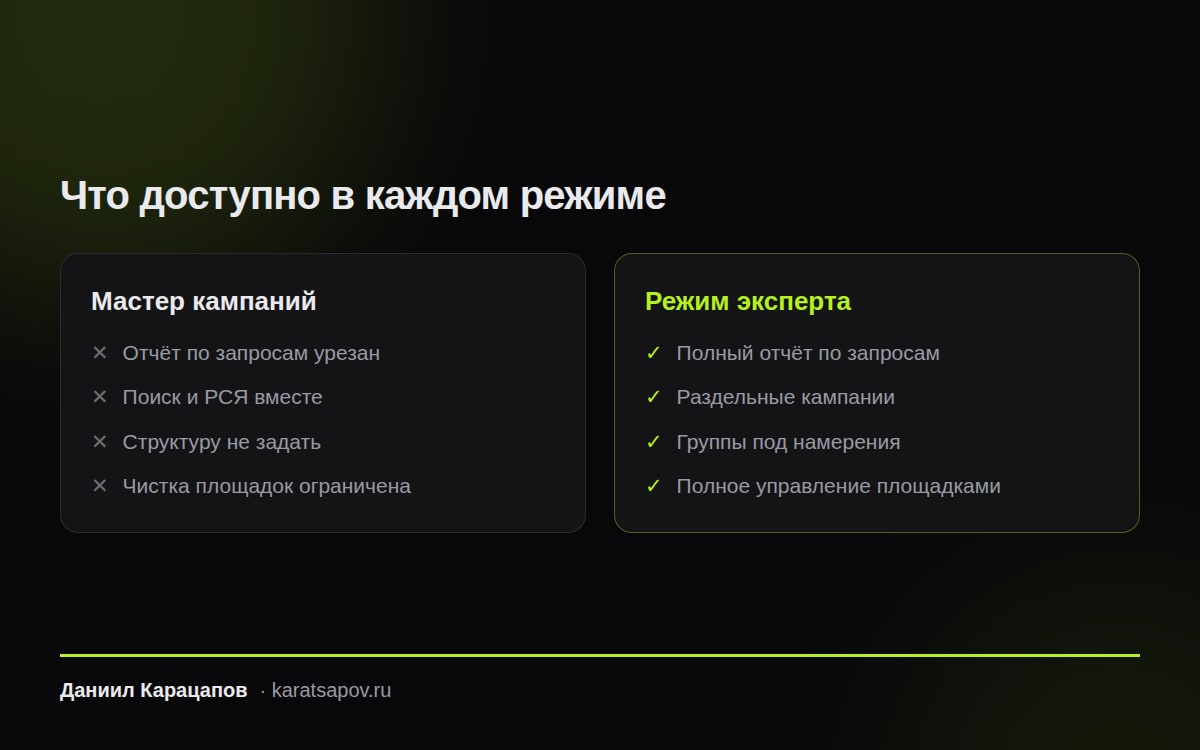
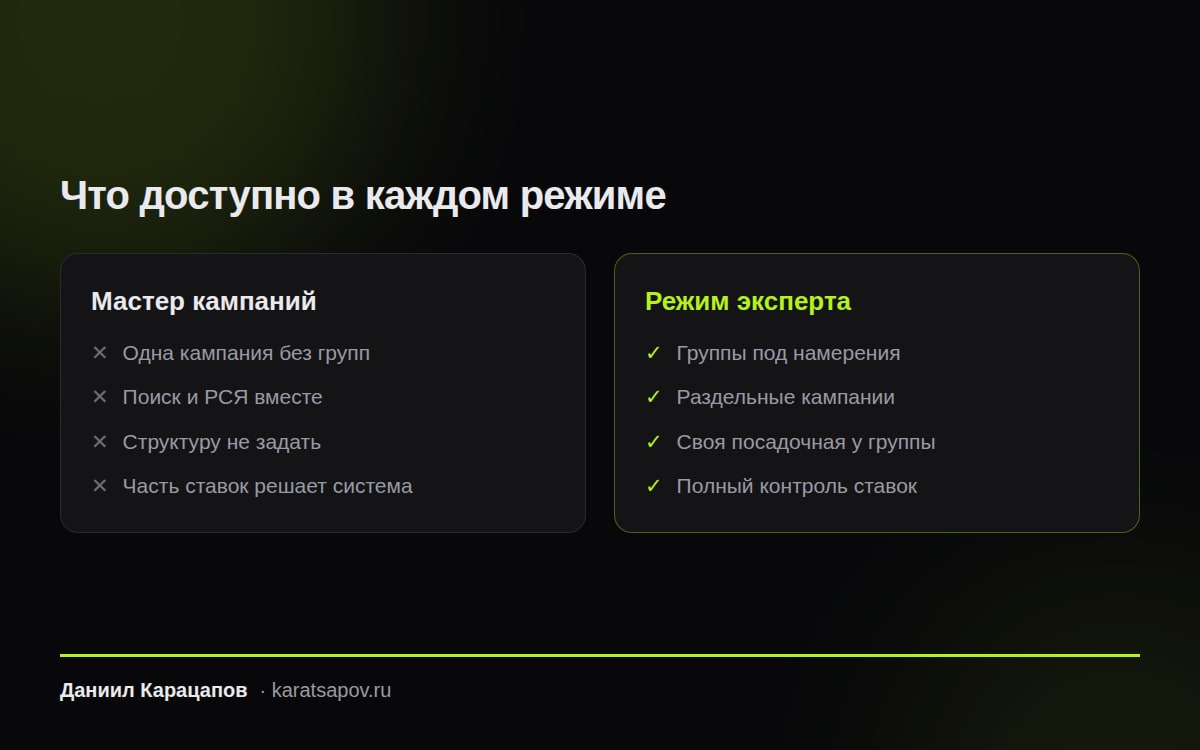
deploy: b6965710183f1ced0473240cff7ca3119b481701

diff --git a/blog/master-kampanij/index.html b/blog/master-kampanij/index.html
@@ -42,7 +42,7 @@
 <noscript><div><img src="https://mc.yandex.ru/watch/109681858" style="position:absolute; left:-9999px;" alt="" /></div></noscript>
 <!-- /Yandex.Metrika counter -->
 <script type="application/ld+json">{"@context":"https://schema.org","@type":"BreadcrumbList","itemListElement":[{"@type":"ListItem","position":1,"name":"Главная","item":"https://karatsapov.ru/"},{"@type":"ListItem","position":2,"name":"Блог","item":"https://karatsapov.ru/blog/"},{"@type":"ListItem","position":3,"name":"Мастер кампаний в Яндекс Директе — кому подходит, а кому вредит","item":"https://karatsapov.ru/blog/master-kampanij/"}]}</script>
-<script type="application/ld+json">{"@context":"https://schema.org","@type":"BlogPosting","headline":"Мастер кампаний в Яндекс Директе — кому подходит, а кому вредит","description":"Что такое Мастер кампаний, чем он отличается от режима эксперта и в каких случаях им можно пользоваться без потерь. Разбор ограничений автоматического режима и типичных ситуаций, где он сливает бюджет.","datePublished":"2026-08-15","dateModified":"2026-08-15","inLanguage":"ru-RU","author":{"@id":"https://karatsapov.ru/#person"},"publisher":{"@id":"https://karatsapov.ru/#person"},"mainEntityOfPage":{"@type":"WebPage","@id":"https://karatsapov.ru/blog/master-kampanij/"},"url":"https://karatsapov.ru/blog/master-kampanij/","image":"https://karatsapov.ru/assets/blog/master-kampanij-cover.jpg","keywords":"Яндекс Директ, Автоматизация, Разбор","wordCount":540}</script>
+<script type="application/ld+json">{"@context":"https://schema.org","@type":"BlogPosting","headline":"Мастер кампаний в Яндекс Директе — кому подходит, а кому вредит","description":"Что такое Мастер кампаний, чем он отличается от режима эксперта и в каких случаях им можно пользоваться без потерь. Разбор ограничений автоматического режима и типичных ситуаций, где он сливает бюджет.","datePublished":"2026-08-15","dateModified":"2026-08-15","inLanguage":"ru-RU","author":{"@id":"https://karatsapov.ru/#person"},"publisher":{"@id":"https://karatsapov.ru/#person"},"mainEntityOfPage":{"@type":"WebPage","@id":"https://karatsapov.ru/blog/master-kampanij/"},"url":"https://karatsapov.ru/blog/master-kampanij/","image":"https://karatsapov.ru/assets/blog/master-kampanij-cover.jpg","keywords":"Яндекс Директ, Автоматизация, Разбор","wordCount":720}</script>
 
 </head>
 <body>
@@ -110,7 +110,7 @@
     <div class="post-meta">
       <time datetime="2026-08-15">15 августа 2026 г.</time>
       <span class="post-meta-sep">·</span>
-      <span>3 минуты чтения</span>
+      <span>4 минуты чтения</span>
       
     </div>
     <img class="post-cover" src="/assets/blog/master-kampanij-cover.jpg" alt="Мастер кампаний в Яндекс Директе — кому подходит, а кому вредит" width="1200" height="630">
@@ -118,7 +118,7 @@
       <div class="post-toc-title">В статье</div>
       <ol>
         <li><a href="#chto-master-delaet-za-vas">Что Мастер делает за вас</a></li>
-        <li><a href="#chego-vy-lishaetes">Чего вы лишаетесь</a></li>
+        <li><a href="#chem-on-otlichaetsya-ot-rezhima-eksperta">Чем он отличается от режима эксперта</a></li>
         <li><a href="#komu-master-realno-podhodit">Кому Мастер реально подходит</a></li>
         <li><a href="#gde-master-garantirovanno-navredit">Где Мастер гарантированно навредит</a></li>
         <li><a href="#esli-reshili-ispolzovat-minimalnye-trebovaniya">Если решили использовать — минимальные требования</a></li>
@@ -137,17 +137,17 @@
 <li>Управляет ставками по выбранной цели.</li>
 </ul>
 <p>Звучит удобно, и в части случаев это действительно рабочий инструмент. Проблема начинается там, где вы теряете контроль.</p>
-<h2 id="chego-vy-lishaetes">Чего вы лишаетесь</h2>
+<h2 id="chem-on-otlichaetsya-ot-rezhima-eksperta">Чем он отличается от режима эксперта</h2>
 <p><img src="/assets/blog/master-kampanij-sravnenie.jpg" alt="Что доступно в режиме эксперта и чего нет в Мастере" loading="lazy" decoding="async"></p>
-<p><strong>Не видно, по каким запросам идут показы.</strong> Отчёт по поисковым запросам в Мастере урезан. Значит, вы не можете полноценно собирать <a href="/blog/minus-slova/">минус-слова</a> — главный инструмент экономии бюджета.</p>
-<p><strong>Нельзя разделить поиск и РСЯ.</strong> Система крутит и там, и там, а вы не можете оценить их по отдельности и отключить убыточное направление.</p>
-<p><strong>Нет управления структурой.</strong> Все запросы в одной куче, нельзя развести услуги по группам с разными объявлениями и посадочными.</p>
-<p><strong>Ограниченная чистка площадок.</strong> В РСЯ мусорные площадки съедают часть бюджета, а инструментов для их отсева меньше.</p>
+<p><strong>Одна кампания вместо структуры.</strong> В режиме эксперта услуги разводятся по группам: у каждой свои запросы, своё объявление и своя посадочная. В Мастере всё идёт одним потоком, и подстроиться под разные намерения не получится. Человек ищет «кухни на заказ», а видит объявление про мебель вообще — и уходит к конкуренту, у которого написано именно про кухни.</p>
+<p><strong>Поиск и РСЯ в одной связке.</strong> Система сама распределяет показы между поиском и сетями. Развести их на две кампании со своими бюджетами и оценивать по отдельности, как в экспертном режиме, нельзя.</p>
+<p><strong>Меньше рычагов управления.</strong> Часть решений по ставкам, корректировкам и таргетингу система принимает сама. Пока результат устраивает — это удобно. Когда цена заявки поехала, вмешаться получается не везде.</p>
+<p>Отчёт по поисковым запросам и исключение площадок в Мастере доступны — <a href="/blog/minus-slova/">минус-слова</a> собирать и мусорные площадки отсекать можно, и делать это нужно так же регулярно, как в экспертных кампаниях.</p>
 <h2 id="komu-master-realno-podhodit">Кому Мастер реально подходит</h2>
 <p><strong>Одна простая услуга и один город.</strong> Шиномонтаж, маникюр, доставка воды. Когда весь бизнес описывается одной фразой и география узкая, автоматике негде ошибиться по-крупному.</p>
 <p><strong>Тест ниши на две недели.</strong> Нужно быстро понять, есть ли спрос вообще. Мастер даст черновой ответ дешевле, чем полноценная настройка.</p>
 <p><strong>Совсем маленький бюджет.</strong> 15–20 тысяч в месяц. Полноценная настройка при таком бюджете не окупится, а Мастер хотя бы что-то покажет — с пониманием, что это не измерение канала, а проба.</p>
-<p><strong>Дополнение к основным кампаниям.</strong> Опытные специалисты иногда запускают Мастер параллельно с экспертными кампаниями, чтобы система нашла аудиторию, до которой не дотянулась семантика. Но это работает при накопленной статистике и настроенных целях.</p>
+<p><strong>Дополнение к основным кампаниям.</strong> Опытные специалисты запускают Мастер параллельно с экспертными кампаниями, чтобы система нашла аудиторию, до которой не дотянулась семантика. Но это работает при накопленной статистике и настроенных целях.</p>
 <h2 id="gde-master-garantirovanno-navredit">Где Мастер гарантированно навредит</h2>
 <p><strong>Несколько разных услуг.</strong> Если вы делаете и натяжные потолки, и электрику, и сантехнику, Мастер смешает их в одну кучу. Объявления будут общие, посадочная одна, релевантность низкая.</p>
 <p><strong>Дорогой клик.</strong> В нишах с ценой клика 300–800 ₽ каждая ошибка автоматики стоит как несколько заявок. Здесь нужен ручной контроль.</p>
@@ -162,12 +162,12 @@
 <li>бюджет вырос выше 50 000 ₽ в месяц;</li>
 <li>услуг стало больше одной;</li>
 <li>цена заявки не устраивает и непонятно, откуда она такая;</li>
-<li>нужно понимать, по каким запросам идут показы.</li>
+<li>нужна структура: разные объявления и посадочные под разные услуги.</li>
 </ul>
 <p>Переход не бесплатный: экспертная кампания требует <a href="/blog/kak-nastroit-yandex-direkt-samomu/">сбора семантики</a>, структуры и последующего ведения. Но она даёт то, чего Мастер не даст никогда, — управляемость.</p>
 <h2 id="chto-stoit-zapomnit">Что стоит запомнить</h2>
 <p>Мастер кампаний — не плохой инструмент. Плохо, когда его продают как полноценную настройку рекламы.</p>
-<p>Если подрядчик берёт 5 000 ₽ и запускает Мастер — формально он не обманул, реклама действительно работает. Но вы заплатили за пятнадцать минут работы и получили инструмент, в котором нельзя ни разобрать проблему, ни исправить её. Подробнее про экономику этого выбора — в статье про <a href="/blog/skolko-stoit-kontekstnaya-reklama/">стоимость контекстной рекламы</a>.</p>
+<p>Если подрядчик берёт 5 000 ₽ и запускает Мастер — формально он не обманул, реклама действительно работает. Но вы заплатили за пятнадцать минут работы, и дальше кампанию всё равно нужно вести: чистить запросы и площадки, следить за ценой заявки. Именно этого в такой сделке обычно и нет. Подробнее про экономику этого выбора — в статье про <a href="/blog/skolko-stoit-kontekstnaya-reklama/">стоимость контекстной рекламы</a>.</p>
 <p>Мой подход: Мастер уместен как проба или как канал для совсем маленького бюджета. Всё, что серьёзнее, собирается руками — <a href="/kontekstnaya-reklama/">вот как именно</a>.</p>
 
     </div>

diff --git a/blog/index.html b/blog/index.html
@@ -153,7 +153,7 @@
       <a class="post-card" href="/blog/master-kampanij/">
         <img class="post-card-cover" src="/assets/blog/master-kampanij-cover.jpg" alt="" width="600" height="315" loading="lazy">
         <div class="post-card-body">
-          <div class="post-card-meta"><time datetime="2026-08-15">15 августа 2026 г.</time> · 3 минуты чтения</div>
+          <div class="post-card-meta"><time datetime="2026-08-15">15 августа 2026 г.</time> · 4 минуты чтения</div>
           <h3 class="post-card-title">Мастер кампаний в Яндекс Директе — кому подходит, а кому вредит</h3>
           <p class="post-card-desc">Что такое Мастер кампаний, чем он отличается от режима эксперта и в каких случаях им можно пользоваться без потерь. Разбор ограничений автоматического режима и типичных ситуаций, где он сливает бюджет.</p>
           <span class="post-card-more">Читать →</span>
